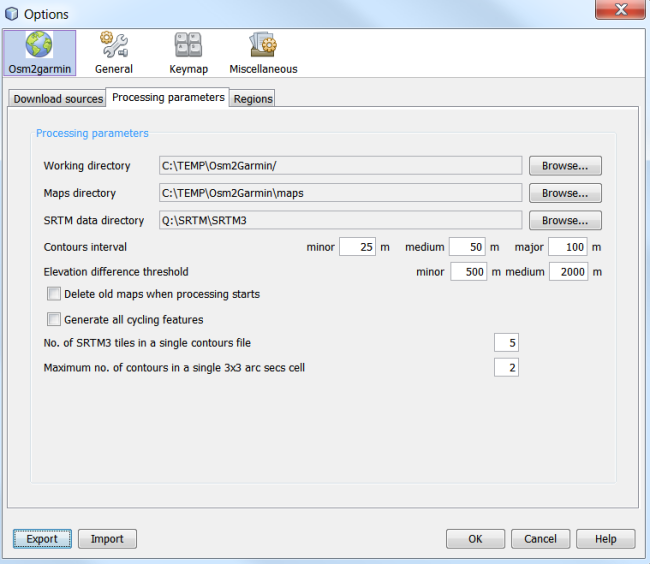
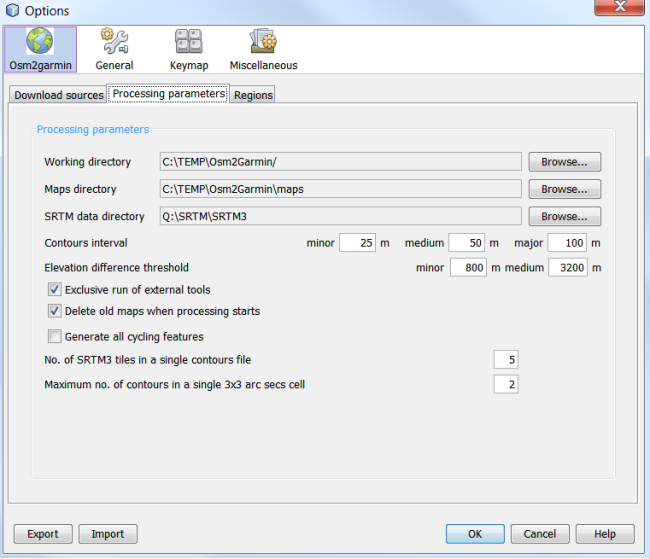
Update issue 3 Added parameter to allow fully exclusive processing. If checked, only one (potentially) memory intensive process from Osmosis, Splitter and Mkgmap runs at a given moment. Updated documentation with the new parameter.

diff --git a/Osm2garminGUI/src/main/java/org/mantlik/osm2garminspi/Osm2garminPanel.java b/Osm2garminGUI/src/main/java/org/mantlik/osm2garminspi/Osm2garminPanel.java
@@ -72,12 +72,13 @@ final class Osm2garminPanel extends javax.swing.JPanel {
         jLabel19 = new javax.swing.JLabel();
         thresholdmediumItem = new javax.swing.JTextField();
         jLabel20 = new javax.swing.JLabel();
-        deleteOldMapsItem = new javax.swing.JCheckBox();
+        exclusiveUtilsItem = new javax.swing.JCheckBox();
         cyclingFeaturesItem = new javax.swing.JCheckBox();
         srtmStepItem = new javax.swing.JTextField();
         jLabel4 = new javax.swing.JLabel();
         jLabel5 = new javax.swing.JLabel();
         contoursDensityItem = new javax.swing.JTextField();
+        deleteOldMapsItem = new javax.swing.JCheckBox();
 
         jPanel1.setBorder(javax.swing.BorderFactory.createTitledBorder(null, org.openide.util.NbBundle.getMessage(Osm2garminPanel.class, "Osm2garminPanel.jPanel1.border.title"), javax.swing.border.TitledBorder.DEFAULT_JUSTIFICATION, javax.swing.border.TitledBorder.DEFAULT_POSITION, null, new java.awt.Color(51, 153, 255))); // NOI18N
 
@@ -204,10 +205,10 @@ final class Osm2garminPanel extends javax.swing.JPanel {
 
         org.openide.awt.Mnemonics.setLocalizedText(jLabel20, org.openide.util.NbBundle.getMessage(Osm2garminPanel.class, "Osm2garminPanel.jLabel20.text")); // NOI18N
 
-        org.openide.awt.Mnemonics.setLocalizedText(deleteOldMapsItem, org.openide.util.NbBundle.getMessage(Osm2garminPanel.class, "Osm2garminPanel.deleteOldMapsItem.text")); // NOI18N
-        deleteOldMapsItem.addPropertyChangeListener(new java.beans.PropertyChangeListener() {
+        org.openide.awt.Mnemonics.setLocalizedText(exclusiveUtilsItem, org.openide.util.NbBundle.getMessage(Osm2garminPanel.class, "Osm2garminPanel.exclusiveUtilsItem.text")); // NOI18N
+        exclusiveUtilsItem.addPropertyChangeListener(new java.beans.PropertyChangeListener() {
             public void propertyChange(java.beans.PropertyChangeEvent evt) {
-                deleteOldMapsItemPropertyChange(evt);
+                exclusiveUtilsItemPropertyChange(evt);
             }
         });
 
@@ -235,6 +236,13 @@ final class Osm2garminPanel extends javax.swing.JPanel {
         contoursDensityItem.addPropertyChangeListener(new java.beans.PropertyChangeListener() {
             public void propertyChange(java.beans.PropertyChangeEvent evt) {
                 contoursDensityItemPropertyChange(evt);
+            }
+        });
+
+        org.openide.awt.Mnemonics.setLocalizedText(deleteOldMapsItem, org.openide.util.NbBundle.getMessage(Osm2garminPanel.class, "Osm2garminPanel.deleteOldMapsItem.text")); // NOI18N
+        deleteOldMapsItem.addPropertyChangeListener(new java.beans.PropertyChangeListener() {
+            public void propertyChange(java.beans.PropertyChangeEvent evt) {
+                deleteOldMapsItemPropertyChange(evt);
             }
         });
 
@@ -293,8 +301,9 @@ final class Osm2garminPanel extends javax.swing.JPanel {
                                 .addGap(1, 1, 1))
                             .addGroup(jPanel1Layout.createSequentialGroup()
                                 .addGroup(jPanel1Layout.createParallelGroup(javax.swing.GroupLayout.Alignment.LEADING)
-                                    .addComponent(deleteOldMapsItem, javax.swing.GroupLayout.PREFERRED_SIZE, 399, javax.swing.GroupLayout.PREFERRED_SIZE)
-                                    .addComponent(cyclingFeaturesItem, javax.swing.GroupLayout.PREFERRED_SIZE, 399, javax.swing.GroupLayout.PREFERRED_SIZE))
+                                    .addComponent(exclusiveUtilsItem, javax.swing.GroupLayout.PREFERRED_SIZE, 399, javax.swing.GroupLayout.PREFERRED_SIZE)
+                                    .addComponent(cyclingFeaturesItem, javax.swing.GroupLayout.PREFERRED_SIZE, 399, javax.swing.GroupLayout.PREFERRED_SIZE)
+                                    .addComponent(deleteOldMapsItem, javax.swing.GroupLayout.PREFERRED_SIZE, 399, javax.swing.GroupLayout.PREFERRED_SIZE))
                                 .addGap(0, 0, Short.MAX_VALUE))
                             .addGroup(jPanel1Layout.createSequentialGroup()
                                 .addGroup(jPanel1Layout.createParallelGroup(javax.swing.GroupLayout.Alignment.TRAILING)
@@ -360,6 +369,8 @@ final class Osm2garminPanel extends javax.swing.JPanel {
                     .addComponent(jLabel20)
                     .addComponent(jLabel17)
                     .addComponent(jLabel16))
+                .addPreferredGap(javax.swing.LayoutStyle.ComponentPlacement.RELATED)
+                .addComponent(exclusiveUtilsItem)
                 .addPreferredGap(javax.swing.LayoutStyle.ComponentPlacement.RELATED)
                 .addComponent(deleteOldMapsItem)
                 .addPreferredGap(javax.swing.LayoutStyle.ComponentPlacement.UNRELATED)
@@ -479,9 +490,9 @@ final class Osm2garminPanel extends javax.swing.JPanel {
         }
     }//GEN-LAST:event_thresholdmediumItemPropertyChange
 
-    private void deleteOldMapsItemPropertyChange(java.beans.PropertyChangeEvent evt) {//GEN-FIRST:event_deleteOldMapsItemPropertyChange
+    private void exclusiveUtilsItemPropertyChange(java.beans.PropertyChangeEvent evt) {//GEN-FIRST:event_exclusiveUtilsItemPropertyChange
         controller.changed();
-    }//GEN-LAST:event_deleteOldMapsItemPropertyChange
+    }//GEN-LAST:event_exclusiveUtilsItemPropertyChange
 
     private void cyclingFeaturesItemPropertyChange(java.beans.PropertyChangeEvent evt) {//GEN-FIRST:event_cyclingFeaturesItemPropertyChange
         controller.changed();
@@ -501,12 +512,18 @@ final class Osm2garminPanel extends javax.swing.JPanel {
         }
     }//GEN-LAST:event_contoursDensityItemPropertyChange
 
+    private void deleteOldMapsItemPropertyChange(java.beans.PropertyChangeEvent evt) {//GEN-FIRST:event_deleteOldMapsItemPropertyChange
+        controller.changed();
+    }//GEN-LAST:event_deleteOldMapsItemPropertyChange
+
     void load() {
         userdirItem.setText(NbPreferences.forModule(Osm2garmin.class).get("userdir",
                 System.getProperty("netbeans.user") + "/"));
         mapsdirItem.setText(NbPreferences.forModule(Osm2garmin.class).get("maps_dir",
                 System.getProperty("netbeans.user") + "/maps/"));
         deleteOldMapsItem.setSelected(NbPreferences.forModule(Osm2garmin.class).get("delete_old_maps",
+                "true").equals("true"));
+        exclusiveUtilsItem.setSelected(NbPreferences.forModule(Osm2garmin.class).get("exclusive_utils",
                 "true").equals("true"));
         srtmdirItem.setText(NbPreferences.forModule(Osm2garmin.class).get("srtm_dir",
                 System.getProperty("netbeans.user") + "/SRTM/"));
@@ -545,6 +562,8 @@ final class Osm2garminPanel extends javax.swing.JPanel {
         NbPreferences.forModule(Osm2garmin.class).put("maps_dir", mapsdirItem.getText());
         NbPreferences.forModule(Osm2garmin.class).put("delete_old_maps", 
                 deleteOldMapsItem.isSelected() ? "true": "false");
+        NbPreferences.forModule(Osm2garmin.class).put("exclusive_utils", 
+                exclusiveUtilsItem.isSelected() ? "true": "false");
         NbPreferences.forModule(Osm2garmin.class).put("srtm_dir", srtmdirItem.getText());
         NbPreferences.forModule(Osm2garmin.class).put("contours_minor_interval", minorintervalItem.getText());
         NbPreferences.forModule(Osm2garmin.class).put("contours_medium_interval", mediumintervalItem.getText());
@@ -566,6 +585,7 @@ final class Osm2garminPanel extends javax.swing.JPanel {
     private javax.swing.JCheckBox cyclingFeaturesItem;
     private javax.swing.JCheckBox deleteOldMapsItem;
     private javax.swing.ButtonGroup downloadMethodItem;
+    private javax.swing.JCheckBox exclusiveUtilsItem;
     private javax.swing.JLabel jLabel1;
     private javax.swing.JLabel jLabel10;
     private javax.swing.JLabel jLabel11;

diff --git a/Osm2garminAPI/src/main/java/org/mantlik/osm2garmin/Osm2garmin.java b/Osm2garminAPI/src/main/java/org/mantlik/osm2garmin/Osm2garmin.java
@@ -320,15 +320,13 @@ public class Osm2garmin implements PropertyChangeListener {
      * @param library library folder to load classes from
      * @param loader classloader to use
      * @param args parameters to pass to the method
-     * @param exclusive block until no other instance of the same class is
-     * running
+     * @param processor instance invoking the process (used for wait status
+     * display)
      * @throws Exception
      */
     public static void runExternal(String extclass, String method, String library,
-            ClassLoader loader, String[] args, boolean exclusive) throws Exception {
-        if (exclusive) {
-            waitExclusive(extclass);
-        }
+            ClassLoader loader, String[] args, ThreadProcessor processor) throws Exception {
+        waitExclusive(extclass, processor);
         if (loader == null) {
             loader = libClassLoader(library);
         }
@@ -339,9 +337,7 @@ public class Osm2garmin implements PropertyChangeListener {
         m.setAccessible(true);
         m.invoke(null, (Object) args);
         Thread.currentThread().setContextClassLoader(currentLoader);
-        if (exclusive) {
-            endExclusive(extclass);
-        }
+        endExclusive(extclass);
     }
 
     /**
@@ -586,17 +582,39 @@ public class Osm2garmin implements PropertyChangeListener {
     /*
      * Waits until no running instance of the same class runs
      */
-    private static void waitExclusive(String extclass) throws InterruptedException {
+    private static void waitExclusive(String extclass, ThreadProcessor processor) throws InterruptedException {
+        long interval = 10000;
+        processor.parameters.setProperty("wait_status", processor.getStatus());
         while (isExclusive(extclass)) {
-            Thread.sleep(1000);
+            Thread.sleep(interval);
             if (!isExclusive(extclass)) {
                 if (setExclusive(extclass)) {
+                    processor.setStatus(processor.parameters.getProperty("wait_status"));
+                    processor.parameters.remove("wait_status");
+                    processor.parameters.remove("wait_sleep");
                     return;
                 }
             }
+            long sleep = Long.parseLong(processor.parameters.getProperty("wait_sleep","0"));
+            sleep += interval;
+            processor.parameters.setProperty("wait_sleep", "" + sleep);
+            int sec = (int) ((sleep / 1000) % 60);
+            int min = (int) ((sleep / 1000 / 60) % 60);
+            int hour = (int) ((sleep / 1000 / 60 / 60) % 24);
+            int day = (int) (sleep / 1000 / 60 / 60 / 24);
+            String wait = "";
+            if (day == 1) {
+                wait = "1 day ";
+            } else if (day > 1) {
+                wait = day + " days ";
+            }
+            wait += hour + ":" + min + ":" + sec;
+            processor.setStatus(processor.parameters.getProperty("wait_status") + " (waiting " + wait + ")");
         }
+        processor.setStatus(processor.parameters.getProperty("wait_status"));
+        processor.parameters.remove("wait_status");
         if (!setExclusive(extclass)) {
-            waitExclusive(extclass);
+            waitExclusive(extclass, processor);
         }
     }
 
@@ -609,6 +627,9 @@ public class Osm2garmin implements PropertyChangeListener {
     }
 
     private static synchronized boolean isExclusive(String extclass) {
+        if (parameters.getProperty("exclusive_utils", "true").equals("true")) {
+            return !runningClasses.isEmpty();
+        }
         return runningClasses.contains(extclass);
     }
 

diff --git a/Osm2garminAPI/src/main/java/org/mantlik/osm2garmin/OsmMaker.java b/Osm2garminAPI/src/main/java/org/mantlik/osm2garmin/OsmMaker.java
@@ -130,7 +130,7 @@ public class OsmMaker extends ThreadProcessor {
 
             splitterLoader = Osm2garmin.libClassLoader("splitter", getClass().getClassLoader());
             Osm2garmin.runExternal("uk.me.parabola.splitter.Main", "main", "splitter",
-                    splitterLoader, args, true);
+                    splitterLoader, args, this);
         } catch (InvocationTargetException ex) {
             Throwable exx = ex.getTargetException();
             region.splitterMaxAreas = Math.max(1, region.splitterMaxAreas / 2);
@@ -180,7 +180,7 @@ public class OsmMaker extends ThreadProcessor {
         }
         try {
             //uk.me.parabola.mkgmap.main.Main.main(args);
-            Osm2garmin.runExternal("uk.me.parabola.mkgmap.main.Main", "main", "mkgmap", null, args, true);
+            Osm2garmin.runExternal("uk.me.parabola.mkgmap.main.Main", "main", "mkgmap", null, args, this);
         } catch (Exception ex) {
             Logger.getLogger(OsmMaker.class.getName()).log(Level.SEVERE, null, ex);
         }
@@ -202,7 +202,7 @@ public class OsmMaker extends ThreadProcessor {
                     //uk.me.parabola.splitter.Main.main(args);
                     splitterLoader = Osm2garmin.libClassLoader("splitter", getClass().getClassLoader());
                     Osm2garmin.runExternal("uk.me.parabola.splitter.Main", "main", "splitter",
-                            splitterLoader, args, true);
+                            splitterLoader, args, this);
                 } catch (Exception ex) {
                     Logger.getLogger(OsmMaker.class.getName()).log(Level.SEVERE, null, ex);
                 }
@@ -230,7 +230,7 @@ public class OsmMaker extends ThreadProcessor {
                 }
                 try {
                     //uk.me.parabola.mkgmap.main.Main.main(args);
-                    Osm2garmin.runExternal("uk.me.parabola.mkgmap.main.Main", "main", "mkgmap", null, args, true);
+                    Osm2garmin.runExternal("uk.me.parabola.mkgmap.main.Main", "main", "mkgmap", null, args, this);
                 } catch (Exception ex) {
                     Logger.getLogger(OsmMaker.class.getName()).log(Level.SEVERE, null, ex);
                 }
@@ -274,7 +274,7 @@ public class OsmMaker extends ThreadProcessor {
         args = aa.toArray(new String[0]);
         try {
             //uk.me.parabola.mkgmap.main.Main.main(args);
-            Osm2garmin.runExternal("uk.me.parabola.mkgmap.main.Main", "main", "mkgmap", null, args, true);
+            Osm2garmin.runExternal("uk.me.parabola.mkgmap.main.Main", "main", "mkgmap", null, args, this);
         } catch (Exception ex) {
             Logger.getLogger(OsmMaker.class.getName()).log(Level.SEVERE, null, ex);
             setState(ERROR);

diff --git a/Osm2garminAPI/src/main/java/org/mantlik/osm2garmin/PlanetUpdater.java b/Osm2garminAPI/src/main/java/org/mantlik/osm2garmin/PlanetUpdater.java
@@ -119,7 +119,7 @@ public class PlanetUpdater extends ThreadProcessor {
                 setState(COMPLETED);
                 return;
             }
-            String[] args = new String[0];
+            String[] args;
             if (nchanges > 0) {
                 l.add("--apc");
                 l.add("sourceCount=" + nchanges);
@@ -129,7 +129,7 @@ public class PlanetUpdater extends ThreadProcessor {
                 l.add("file=" + Osm2garmin.userdir + "update.osc.gz");
                 args = l.toArray(new String[0]);
                 Osm2garmin.runExternal("org.openstreetmap.osmosis.core.Osmosis", "run", "osmosis",
-                        Osm2garmin.libClassLoader("osmosis", getClass().getClassLoader()), args, true);
+                        Osm2garmin.libClassLoader("osmosis", getClass().getClassLoader()), args, this);
             }
 
             File torrentFile = new File(parameters.getProperty("planet_file").replace(".osm.pbf", ".osm.bz2"));
@@ -202,7 +202,7 @@ public class PlanetUpdater extends ThreadProcessor {
                 args = largs.toArray(new String[0]);
 
                 Osm2garmin.runExternal("org.openstreetmap.osmosis.core.Osmosis", "run", "osmosis",
-                        Osm2garmin.libClassLoader("osmosis", getClass().getClassLoader()), args, true);
+                        Osm2garmin.libClassLoader("osmosis", getClass().getClassLoader()), args, this);
             }
 
             if ((!planetFile.exists()) || (planetFile.length() < oldPlanetFile.length())) {

diff --git a/Osm2garminAPI/src/main/java/org/mantlik/osm2garmin/ContoursUpdater.java b/Osm2garminAPI/src/main/java/org/mantlik/osm2garmin/ContoursUpdater.java
@@ -164,7 +164,7 @@ public class ContoursUpdater extends ThreadProcessor {
                         setStatus(coords + "Splitting contour data "
                                 + " - " + region.name + " " + perc + " % completed.");
                         //uk.me.parabola.splitter.Main.main(args);
-                        Osm2garmin.runExternal("uk.me.parabola.splitter.Main", "main", "splitter", null, args, true);
+                        Osm2garmin.runExternal("uk.me.parabola.splitter.Main", "main", "splitter", null, args, this);
                     } catch (Exception ex) {
                         Logger.getLogger(ContoursUpdater.class.getName()).log(Level.SEVERE, null, ex);
                         setState(ERROR);
@@ -204,7 +204,7 @@ public class ContoursUpdater extends ThreadProcessor {
                     args = aa.toArray(new String[0]);
                     try {
                         //uk.me.parabola.mkgmap.main.Main.main(args);
-                        Osm2garmin.runExternal("uk.me.parabola.mkgmap.main.Main", "main", "mkgmap", null, args, true);
+                        Osm2garmin.runExternal("uk.me.parabola.mkgmap.main.Main", "main", "mkgmap", null, args, this);
                     } catch (Exception ex) {
                         Logger.getLogger(ContoursUpdater.class.getName()).log(Level.SEVERE, null, ex);
                         setState(ERROR);

diff --git a/Osm2garminGUI/src/main/java/org/mantlik/osm2garminspi/MainWindowTopComponent.java b/Osm2garminGUI/src/main/java/org/mantlik/osm2garminspi/MainWindowTopComponent.java
@@ -689,14 +689,15 @@ public final class MainWindowTopComponent extends TopComponent implements Proper
         par.setProperty("cycling_features", NbPreferences.forModule(Osm2garmin.class).get("cycling_features", "false"));
         par.setProperty("srtm_step", NbPreferences.forModule(Osm2garmin.class).get("srtm_step", "5"));
         par.setProperty("contours_density", NbPreferences.forModule(Osm2garmin.class).get("contours_density", "2"));
-        String settings = par.getProperty("userdir") + "/settings.properties";
-        if (new File(settings).exists()) {
-            try {
-                par.load(new FileInputStream(settings));
-            } catch (IOException ex) {
-                Exceptions.printStackTrace(ex);
-            }
-        }
+        par.setProperty("exclusive_utils", NbPreferences.forModule(Osm2garmin.class).get("exclusive_utils", "true"));
+        //String settings = par.getProperty("userdir") + "/settings.properties";
+        //if (new File(settings).exists()) {
+        //    try {
+        //        par.load(new FileInputStream(settings));
+        //    } catch (IOException ex) {
+        //        Exceptions.printStackTrace(ex);
+        //    }
+        //}
         return par;
     }
 

diff --git a/Osm2garminAPI/src/main/java/org/mantlik/osm2garmin/PlanetDownloader.java b/Osm2garminAPI/src/main/java/org/mantlik/osm2garmin/PlanetDownloader.java
@@ -177,7 +177,7 @@ public class PlanetDownloader extends ThreadProcessor {
             new File(osmosiswork + "configuration.txt").delete();
             try {
                 Osm2garmin.runExternal("org.openstreetmap.osmosis.core.Osmosis", "run", "osmosis",
-                        Osm2garmin.libClassLoader("osmosis", getClass().getClassLoader()), osargs, true);
+                        Osm2garmin.libClassLoader("osmosis", getClass().getClassLoader()), osargs, this);
             } catch (Exception ex) {
                 Logger.getLogger(Osm2garmin.class.getName()).log(Level.SEVERE, "Osmosis error.", ex);
                 setState(ERROR);

diff --git a/Osm2garminAPI/src/main/java/org/mantlik/osm2garmin/PlanetUpdateDownloader.java b/Osm2garminAPI/src/main/java/org/mantlik/osm2garmin/PlanetUpdateDownloader.java
@@ -126,7 +126,7 @@ public class PlanetUpdateDownloader extends ThreadProcessor {
 
             try {
                 Osm2garmin.runExternal("org.openstreetmap.osmosis.core.Osmosis", "run", "osmosis",
-                        Osm2garmin.libClassLoader("osmosis", getClass().getClassLoader()), osargs, true);
+                        Osm2garmin.libClassLoader("osmosis", getClass().getClassLoader()), osargs, this);
             } catch (Exception ex) {
                 Logger.getLogger(PlanetUpdateDownloader.class.getName()).log(Level.SEVERE, null, ex);
                 setState(ERROR);
